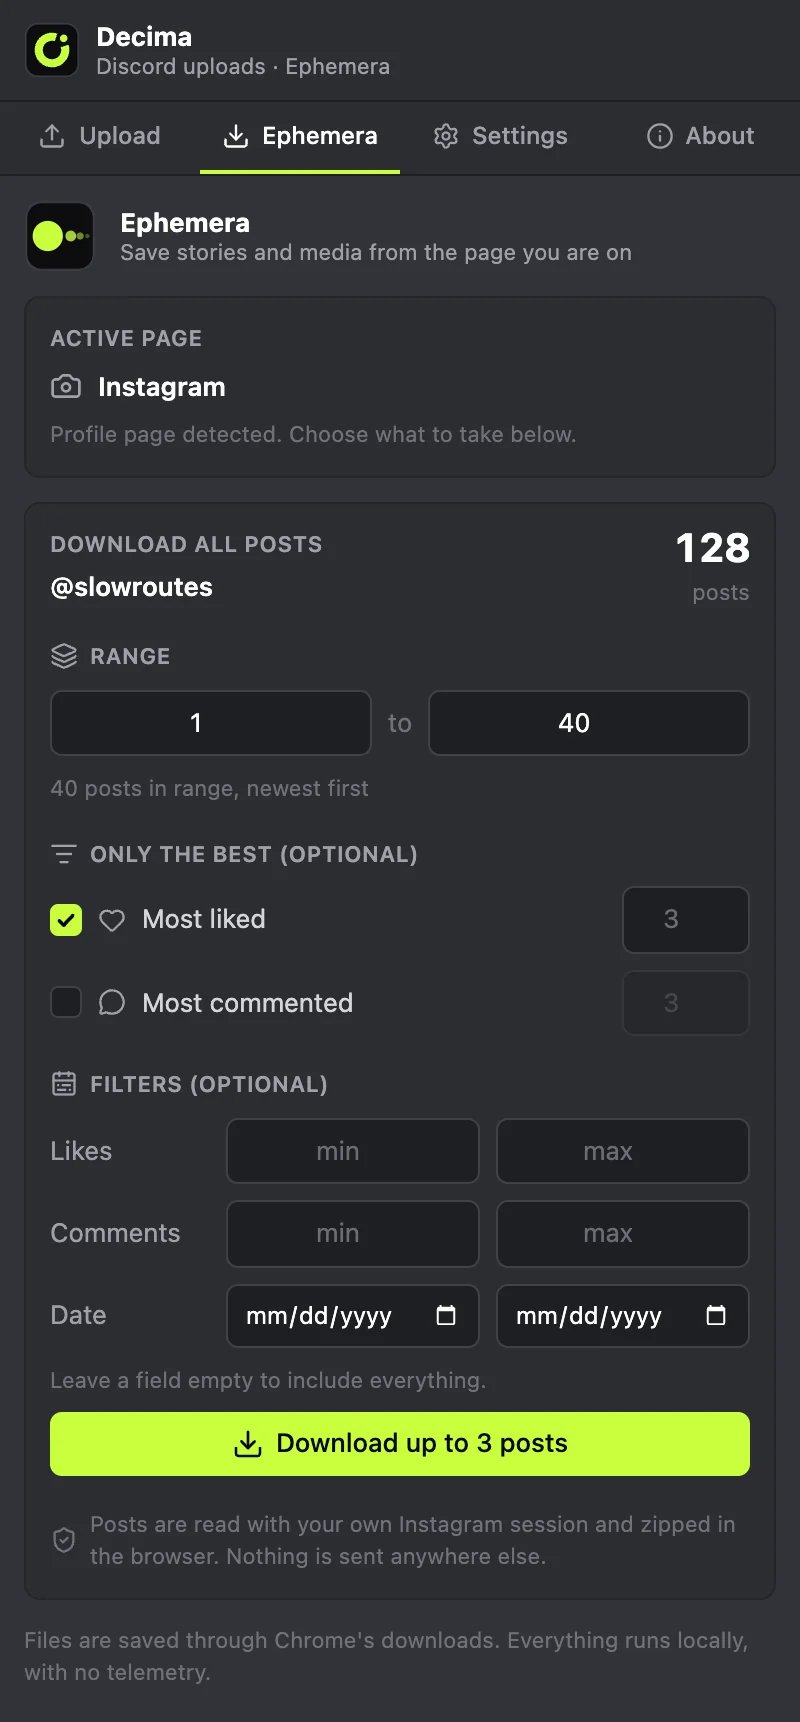
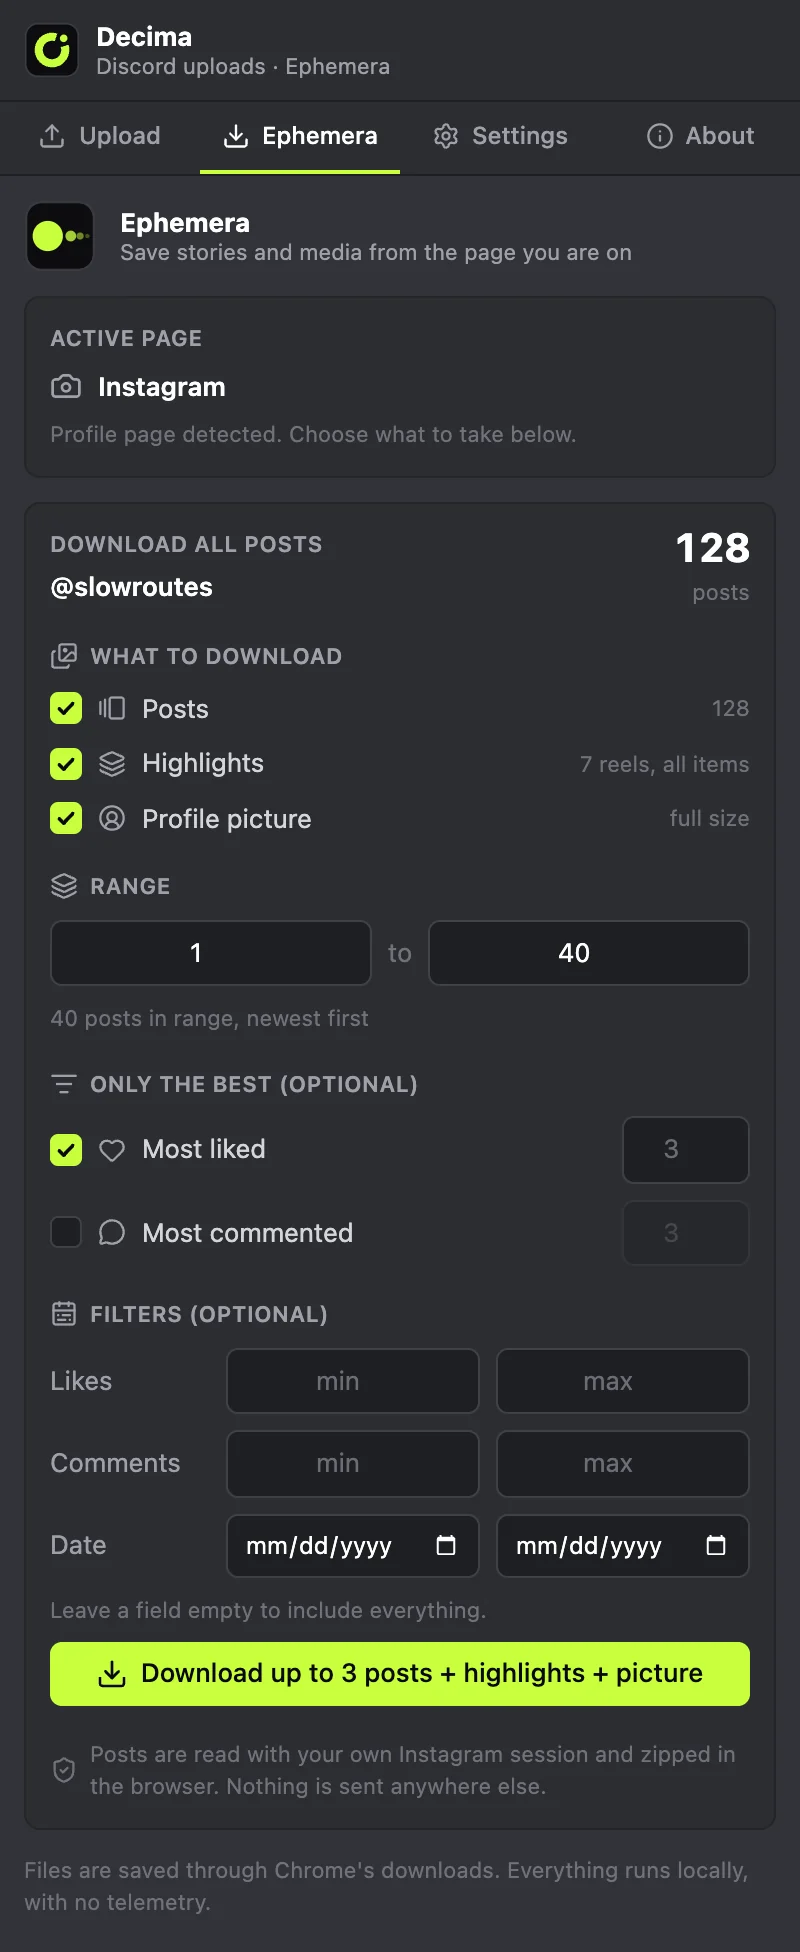
feat(site): describe highlights and profile picture, retake the panel screenshot
The capture tool now ticks the new options before the shot.

diff --git a/site/index.html b/site/index.html
@@ -195,7 +195,8 @@
     <div class="pick-copy">
       <h2 data-words>Pick what to take.</h2>
       <ul class="pick-list">
-        <li data-rv><b>Open a profile, open the side panel.</b> The card shows how many posts the account has and downloads right from there.</li>
+        <li data-rv><b>Open a profile, open the side panel.</b> The card shows how many posts and highlights the account has and downloads right from there.</li>
+        <li data-rv><b>Posts, highlights, profile picture.</b> Tick any mix. Every highlight comes with all its items, the picture at full size.</li>
         <li data-rv><b>Range, top likes, top comments.</b> Choose a range of posts, or only the few with the most likes.</li>
         <li data-rv><b>Likes, comments and date filters</b> narrow it down before anything downloads.</li>
         <li data-rv><b>One ZIP</b> with sensible file names, saved through Chrome.</li>
@@ -203,7 +204,7 @@
       </ul>
     </div>
     <div class="pick-shots" data-rv>
-      <img class="pk-a" src="assets/shots/panel-profile.webp?v=fcd93fe6" alt="Side panel card for downloading all posts of an Instagram profile, with a range, top picks and filters" width="800" height="1722" loading="lazy">
+      <img class="pk-a" src="assets/shots/panel-profile.webp?v=81004552" alt="Side panel card for downloading all posts of an Instagram profile, with a range, top picks and filters" width="800" height="1952" loading="lazy">
       <img class="pk-b" src="assets/shots/panel-ephemera.webp?v=6e9d4f73" alt="Ephemera tab on a story page with a Download from this page button" width="800" height="1560" loading="lazy">
     </div>
   </div>
@@ -211,7 +212,7 @@
 
 <section class="popup-sec">
   <div class="wrap popup-in">
-    <img data-rv src="assets/shots/popup.webp?v=1915292d" alt="Decima toolbar popup showing the target channel, quick settings and a save button" width="680" height="840" loading="lazy">
+    <img data-rv src="assets/shots/popup.webp?v=892e6e91" alt="Decima toolbar popup showing the target channel, quick settings and a save button" width="680" height="840" loading="lazy">
     <div>
       <h2 data-words>The popup is the short version.</h2>
       <p class="sub" data-rv>Open it to check the target, change files per message or the delay, or save the story on the page you are looking at.</p>

diff --git a/README.md b/README.md
@@ -23,7 +23,7 @@ Pick 200 files once; the extension posts them as 20 consecutive messages while y
 Decima also includes a story/media downloader for **Instagram**, **Facebook** and **WhatsApp Web** — a native part of the extension, not a separate add-on.
 
 - Download buttons are injected on Instagram and Facebook pages (stories, posts, reels, videos, albums).
-- **Whole Instagram profiles** download as one ZIP from the side panel: open a profile, open the Ephemera tab, pick a range, the most liked or most commented posts, and likes, comments or date filters.
+- **Whole Instagram profiles** download as one ZIP from the side panel: open a profile, open the Ephemera tab, and tick what you want. **Posts** (with a range, the most liked or most commented, and likes, comments or date filters), **Highlights** (every reel, one folder each, all items) and the **profile picture** at full size.
 - From the toolbar popup or the side panel's **Ephemera** tab, download the story/status on the current tab.
 - Files are saved with Chrome's downloads API. Everything runs locally, with no telemetry.
 
